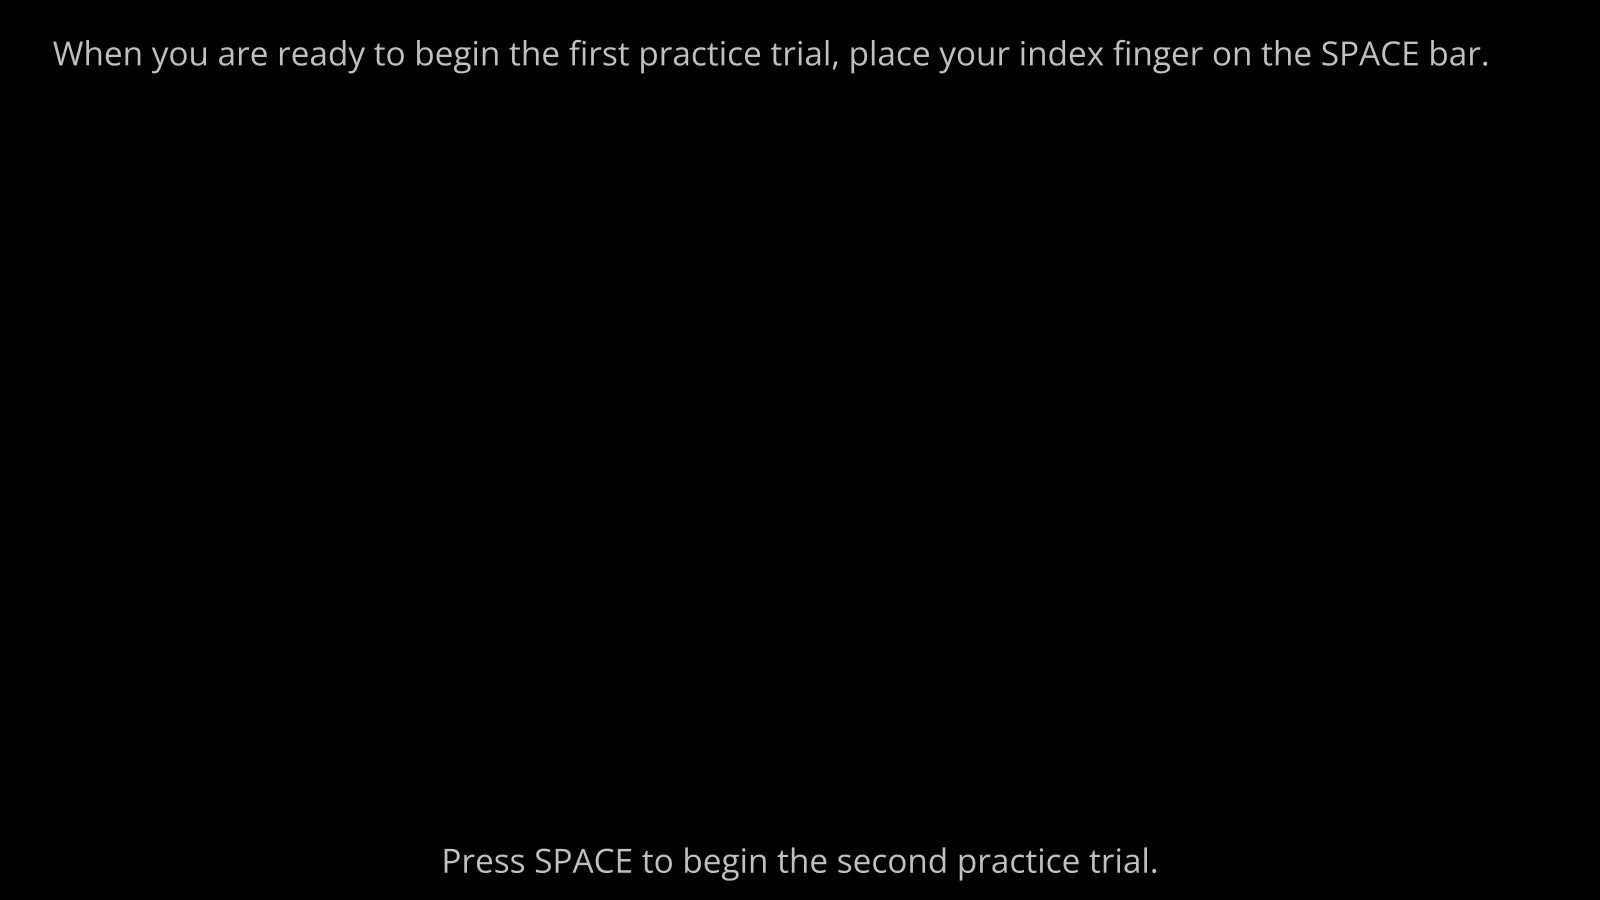
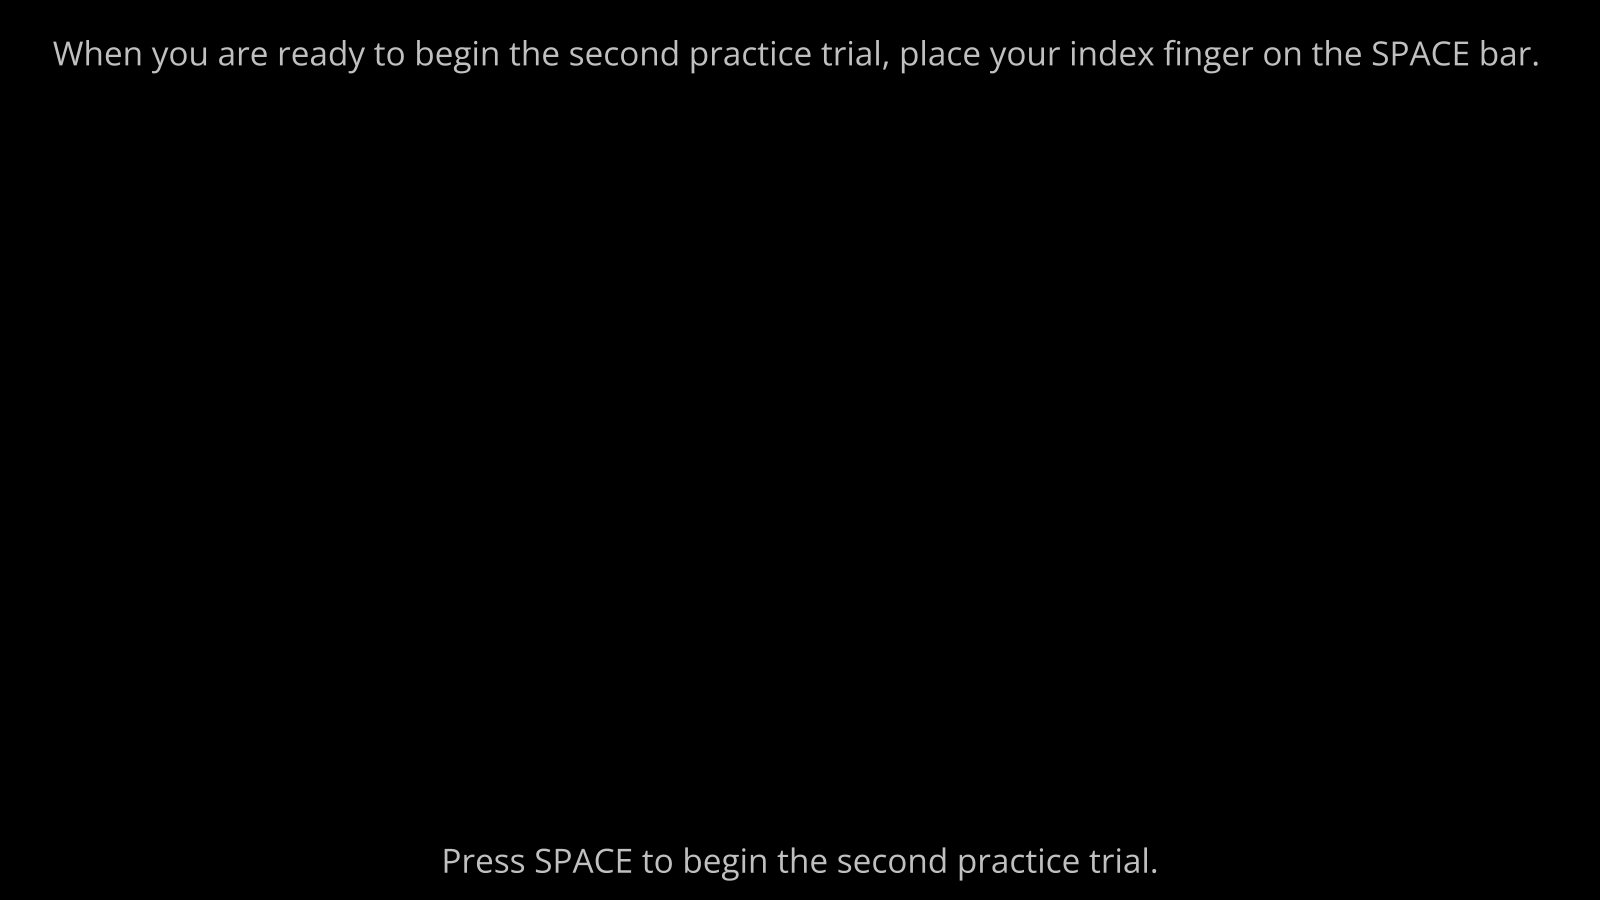
fix tap synch phase

Changed region(s): [[0.3438, 0.0311, 0.9688, 0.0933]]

diff --git a/tap/src/core/run_trial.py b/tap/src/core/run_trial.py
@@ -25,63 +25,124 @@ def _flush_input() -> None:
     pygame.time.delay(1)
     pygame.event.clear()
 
-# Run synchronized sequence
-def run_synchronized(screen, start_tick, target_key, max_key_press, stimulus_path, event_handler:EventHandler):
+# Run synchronized sequence:
+#   Warm-up tones play until the subject's first tap; then the next
+#   max_key_press (=12) tones are counted and recorded. Tap detection is
+#   decoupled from the tones: all genuine taps are captured continuously and
+#   each counted tone is matched to a tap afterward (post-hoc pairing).
+#   Non-counted tones are still saved, labeled "synchronized_warmup" (before the
+#   first tap) or "synchronized_reference" (the tone the first tap synced to).
+def run_synchronized(screen, start_tick, target_key, max_key_press,
+                     stimulus_path, event_handler: EventHandler):
     pygame.event.clear()
-    time.sleep(1) # Delay for 1 second before playing the first sound (for participants to prepare)
+    time.sleep(1)  # Delay before the first tone (let the subject prepare)
 
-    sound_ticks = []
-    key_responses = []
-    valid_key_pressed_num = 0
-    sound_index = 0
+    stimulus = pygame.mixer.Sound(stimulus_path)
+    tones_to_count = max_key_press          # = cfg.NUM_SYNCHRONIZED (12)
+    half = SYNCHRONIZED_INTERVAL / 2.0      # half response window (+/-275 ms)
 
-    while valid_key_pressed_num < max_key_press:
-        sound_index += 1
-        
-        # Play sound
-        stimulus = pygame.mixer.Sound(stimulus_path)
-        stimulus.play()
-        current_sound_tick = pygame.time.get_ticks()
-        sound_ticks.append(current_sound_tick - start_tick)
-        print(f"\nSound {sound_index} played at {current_sound_tick - start_tick} ms")
+    sound_ticks = []          # counted tones only (ms since start_tick)
+    warmup_ticks = []         # tones before the first tap (saved, response NA)
+    reference_ticks = []      # non-counted tone(s) after the first tap (response NA)
+    taps = []                 # all genuine taps (ms since start_tick); taps[0] = trigger
+    first_tap_tick = None     # first tap = start of counting
+    stop_after_tick = None    # raw-tick deadline to stop after the last tone
 
-        responded = False
-        current_response = [None, None]
-        
-        # Listen to keyboard input for exactly 600ms with improved event handling
-        
-        while pygame.time.get_ticks() - current_sound_tick < SYNCHRONIZED_INTERVAL:
+    # Track key-hold state via KEYDOWN/KEYUP edges; never re-seed from physical state.
+    pygame.event.pump()
+    space_held = bool(pygame.key.get_pressed()[pygame.K_SPACE])
 
-            state = event_handler.poll()
-            
-            if state.quit:
+    phase_start = pygame.time.get_ticks()
+    next_tone_time = phase_start            # fixed grid -> no cumulative drift
+
+    while True:
+        now = pygame.time.get_ticks()
+
+        # Play the next tone if it is due and counted tones are still needed
+        if len(sound_ticks) < tones_to_count and now >= next_tone_time:
+            t_rel = pygame.time.get_ticks() - start_tick   # timestamp the play command
+            stimulus.play()
+            next_tone_time += SYNCHRONIZED_INTERVAL         # advance to next grid slot
+
+            if first_tap_tick is None:
+                # Before the first tap -> warm-up tone (not counted)
+                warmup_ticks.append(t_rel)
+                print(f"\nWarm-up tone {len(warmup_ticks)} at {t_rel} ms (not counted)")
+            elif t_rel < first_tap_tick + half:
+                # After the first tap but within half a window -> reference tone,
+                # i.e. the tone the first tap synced to (not counted)
+                reference_ticks.append(t_rel)
+                print(f"\nReference tone at {t_rel} ms (synced to first tap, not counted)")
+            else:
+                # Counted tone
+                sound_ticks.append(t_rel)
+                n = len(sound_ticks)
+                print(f"\nTone {n}/{tones_to_count} (counted) at {t_rel} ms")
+                if n == tones_to_count:
+                    # listen one extra interval to capture the response to the 12th
+                    stop_after_tick = pygame.time.get_ticks() + SYNCHRONIZED_INTERVAL
+
+        # Drain events: capture every genuine tap (edge-triggered detection)
+        for event in pygame.event.get():
+            if event.type == pygame.QUIT:
                 pygame.quit()
                 raise SystemExit
-            
-            if state.toggle_full_screen:
-                pygame.event.clear()
-                screen = toggle_full_screen(screen)
-                pygame.event.clear()
-                _flush_input()
+            elif event.type == pygame.KEYDOWN:
+                if event.key == pygame.K_ESCAPE:
+                    screen = toggle_full_screen(screen)
+                    _flush_input()
+                    space_held = False
+                elif event.key == pygame.K_SPACE:
+                    if not space_held:  # genuine new press (not an OS key-repeat)
+                        tap_tick = pygame.time.get_ticks() - start_tick
+                        taps.append(tap_tick)
+                        if first_tap_tick is None:
+                            first_tap_tick = tap_tick
+                            print(f"  -> FIRST TAP at {tap_tick} ms: counting {tones_to_count} tones")
+                        else:
+                            print(f"  -> tap at {tap_tick} ms")
+                    space_held = True
+            elif event.type == pygame.KEYUP:
+                if event.key == pygame.K_SPACE:
+                    space_held = False
 
-            # Count at most one tap per tone window to avoid accidental double-count
-            # (e.g., key-repeat/duplicate KEYDOWN events in the same 550 ms window).
-            if state.pressed and not responded: # Tapped (space)
-                response_tick = pygame.time.get_ticks() - start_tick
-                current_response = [state.pressed, response_tick]
-                responded = True
-                valid_key_pressed_num += 1
-                print(f"  -> {state.pressed} pressed at {response_tick} ms ({valid_key_pressed_num}/{max_key_press})")
-            pygame.time.wait(1)
-        
-        # Always add exactly one response per sound
-        key_responses.append(current_response)
-        if not responded:
-            print(f"  -> No response detected for sound {sound_index}")
+        # Stop once the 12 tones played and the extra listen window passed
+        if stop_after_tick is not None and pygame.time.get_ticks() >= stop_after_tick:
+            break
 
-    pygame.time.delay(10) # Prevent CPU overuse
+        pygame.time.wait(1)
 
-    return sound_ticks, key_responses
+    pygame.time.delay(10)  # Prevent CPU overuse
+
+    # Post-hoc pairing: each counted tone owns a +/-half window; tones are
+    # SYNCHRONIZED_INTERVAL apart so the windows tile the axis with no overlap.
+    # Match each tone to the nearest tap in its window (closest wins). The
+    # trigger tap (taps[0]) is excluded -- it starts the count, not a response.
+    key_responses = [[None, None] for _ in range(len(sound_ticks))]
+    best_for_tone = {}  # tone_idx -> (distance, tap_tick)
+
+    sync_taps = taps[1:] if first_tap_tick is not None else taps  # drop the trigger
+    for tap in sync_taps:
+        if not sound_ticks:
+            break
+        d, idx = min((abs(tap - st), i) for i, st in enumerate(sound_ticks))
+        if d <= half:
+            if idx not in best_for_tone or d < best_for_tone[idx][0]:
+                best_for_tone[idx] = (d, tap)
+
+    for idx, (d, tap) in best_for_tone.items():
+        key_responses[idx] = [True, tap]
+
+    # Prepend non-counted tones (response None) in chronological order, labeled so
+    # they can be filtered out; the 12 counted tones keep the label "synchronized".
+    all_sound_ticks   = warmup_ticks + reference_ticks + sound_ticks
+    all_key_responses = ([[None, None]] * (len(warmup_ticks) + len(reference_ticks))
+                         + key_responses)
+    tone_kinds = (["synchronized_warmup"]    * len(warmup_ticks) +
+                  ["synchronized_reference"] * len(reference_ticks) +
+                  ["synchronized"]           * len(sound_ticks))
+    return all_sound_ticks, all_key_responses, tone_kinds
+
 
 # Run self-paced sequence
 def run_self_paced(screen, start_tick, target_key, max_key_press, event_handler:EventHandler):
@@ -122,9 +183,9 @@ def run_self_paced(screen, start_tick, target_key, max_key_press, event_handler:
 
 # Run trial (synchronized + self-paced)
 def run_trial(screen, start_tick, target_key, max_synchronized_key_press, max_self_paced_key_press, stimulus_path, event_handler:EventHandler):
-    synchronized_sound_ticks, synchronized_key_responses = run_synchronized(screen, start_tick, target_key, max_synchronized_key_press, stimulus_path,event_handler=event_handler,)
+    synchronized_sound_ticks, synchronized_key_responses, synchronized_tone_kinds = run_synchronized(screen, start_tick, target_key, max_synchronized_key_press, stimulus_path,event_handler=event_handler,)
     self_paced_key_responses = run_self_paced(screen, start_tick, target_key, max_self_paced_key_press, event_handler=event_handler)
-    return synchronized_sound_ticks, synchronized_key_responses, self_paced_key_responses
+    return synchronized_sound_ticks, synchronized_key_responses, synchronized_tone_kinds, self_paced_key_responses
 
 '''
 === Result Format ===
@@ -168,6 +229,7 @@ def single_trial(
     # Run trial
     (synchronized_sound_ticks, 
      synchronized_key_responses, 
+     synchronized_tone_kinds,
      self_paced_key_responses) = run_trial(screen,
                                            start_tick, 
                                            target_key,
@@ -179,8 +241,8 @@ def single_trial(
     # Write trial results
     assert len(synchronized_sound_ticks) == len(synchronized_key_responses)
     
-    # type
-    tap_types = (["synchronized"] * len(synchronized_key_responses) +
+    # type (warm-up/reference tones keep their labels; counted -> "synchronized")
+    tap_types = (synchronized_tone_kinds +
                  ["self_paced"] * len(self_paced_key_responses))
 
     # synchrnoized_sound_tick_ms

diff --git a/tap/src/core/experiment_flow.py b/tap/src/core/experiment_flow.py
@@ -26,29 +26,6 @@ screen = None
 SCREEN_WIDTH = None 
 SCREEN_HEIGHT = None
 
-COUNTDOWN = 10
-
-def show_black_screen(screen, countdown=COUNTDOWN):
-    pygame.font.init()
-    font = pygame.font.SysFont(None, 60)  # Font and size, adjustable
-    clock = pygame.time.Clock()
-
-    for i in range(countdown, 0, -1):
-        screen.fill(BLACK_RGB)
-
-        # Generate text
-        plural = "s" if i > 1 else ""
-        text_surface = font.render(f"The next trial will start in: {i} second{plural}", True, cfg.COCO_RGB)
-        text_rect = text_surface.get_rect(center=(screen.get_width()//2, screen.get_height()//2))
-
-        # Draw text
-        screen.blit(text_surface, text_rect)
-        pygame.display.flip()
-
-        # Wait 1 second
-        pygame.time.delay(1000)
-        clock.tick(60)
-
 
 global_start = pygame.time.get_ticks()
 results = []
@@ -170,6 +147,49 @@ def _show_instruction_page(
     return _wait_for_next_page(screen, event_handler)
 
 
+def _show_transition_page(
+    screen: pygame.Surface,
+    event_handler: EventHandler,
+) -> pygame.Surface:
+    """
+    Show the inter-trial transition page (11.png) and advance on SPACE.
+
+    :param screen: Current display surface
+    :type screen: pygame.Surface
+
+    :param event_handler: Centralized event handler
+    :type event_handler: EventHandler
+
+    :return: Possibly updated display surface
+    :rtype: pygame.Surface
+    """
+    return _show_instruction_page(screen, paths.INSTRUCTIONS[10], event_handler)
+
+
+def _get_final_page_path() -> Path:
+    """
+    Return the final task page path.
+
+    Uses the final instruction page `10.png`.
+    """
+    return paths.INSTRUCTIONS[cfg.BLOCK_2]
+
+
+def _show_final_page(
+    screen: pygame.Surface,
+    event_handler: EventHandler,
+) -> pygame.Surface:
+    """
+    Show the closing page and wait for SPACE or timeout.
+    """
+    final_page = _get_final_page_path()
+    place_image(screen, final_page, fit_mode="contain", max_fraction=0.9)
+    logger.info("Display final page: %s", final_page.name)
+    pygame.display.flip()
+    _flush_input()
+    return _wait_for_next_page_or_timeout(screen, event_handler, timeout_ms=10000)
+
+
 def run() -> None:
     """
     Deploy the full experiment flow (no result recording in this clean version).
@@ -227,8 +247,6 @@ def run() -> None:
         screen = _show_instruction_page(screen, paths.INSTRUCTIONS[i], event_handler)
     
     # 8) practice trial 2
-    # Mostrar cuenta regresiva antes del segundo bloque de práctica
-    show_black_screen(screen, countdown=COUNTDOWN)
     screen, result = single_trial(screen, "p2", global_start, "practice", pygame.K_SPACE, 1, event_handler)
 
     # 7) instruction for test
@@ -240,7 +258,7 @@ def run() -> None:
     b1_trial_idx = 0
     while u < 3 and s < 6:
         if b1_trial_idx > 0:
-            show_black_screen(screen, countdown=COUNTDOWN)
+            screen = _show_transition_page(screen, event_handler)
         trial_num += 1
         b1_trial_idx += 1
         screen, result = single_trial(screen, "b1", global_start, "experimental", pygame.K_SPACE, trial_num, event_handler)
@@ -258,7 +276,7 @@ def run() -> None:
     b2_trial_idx = 0
     while u < 3 and s < 6:
         if b2_trial_idx > 0:
-            show_black_screen(screen, countdown=COUNTDOWN)
+            screen = _show_transition_page(screen, event_handler)
         trial_num += 1
         b2_trial_idx += 1
         screen, result = single_trial(screen, "b2", global_start, "experimental", pygame.K_SPACE, trial_num, event_handler)
@@ -268,11 +286,7 @@ def run() -> None:
             u += 1
 
     # END
-    place_image(screen, paths.INSTRUCTIONS[cfg.BLOCK_2], fit_mode="contain", max_fraction=0.9)
-    logger.info(f"Display page {cfg.BLOCK_2 + 1}")
-    pygame.display.flip()
-    _flush_input()
-    screen = _wait_for_next_page_or_timeout(screen, event_handler, timeout_ms=10000)
+    screen = _show_final_page(screen, event_handler)
 
     # Calculate and display total task duration
     cfg.END_TIME = datetime.datetime.now()

diff --git a/tap/src/utils/event_handler.py b/tap/src/utils/event_handler.py
@@ -134,7 +134,11 @@ class EventHandler:
         # Select [Right hand] (R)
         elif key == pygame.K_r:
             self._state.is_right = True
-    
+
+    def reset_pressed_state(self) -> None:
+        """Reset key-hold tracking so the next KEYDOWN is treated as a fresh press."""
+        self._keys_down.discard(pygame.K_SPACE)
+
     def _process_joystick(self) -> None:
         """
         Read joystick axis input and map directional movement to option flags.

diff --git a/tap/src/ui/pygame_render.py b/tap/src/ui/pygame_render.py
@@ -33,7 +33,7 @@ def init_display() -> pygame.Surface:
     screen = pygame.display.set_mode(
         (cfg.SCREEN_WIDTH, cfg.SCREEN_HEIGHT), flags
     )
-    pygame.display.set_caption("ET")
+    pygame.display.set_caption("TAP")
     return screen
 
 
